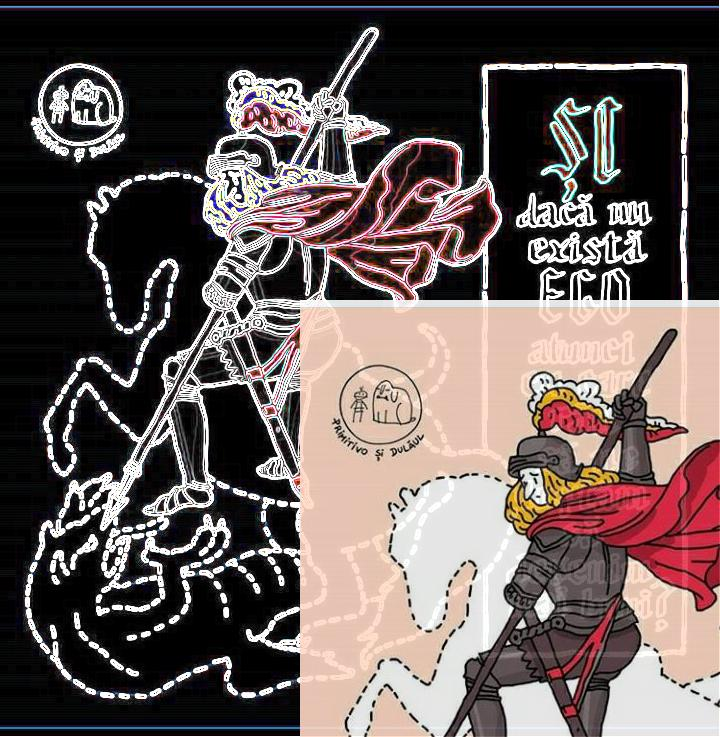
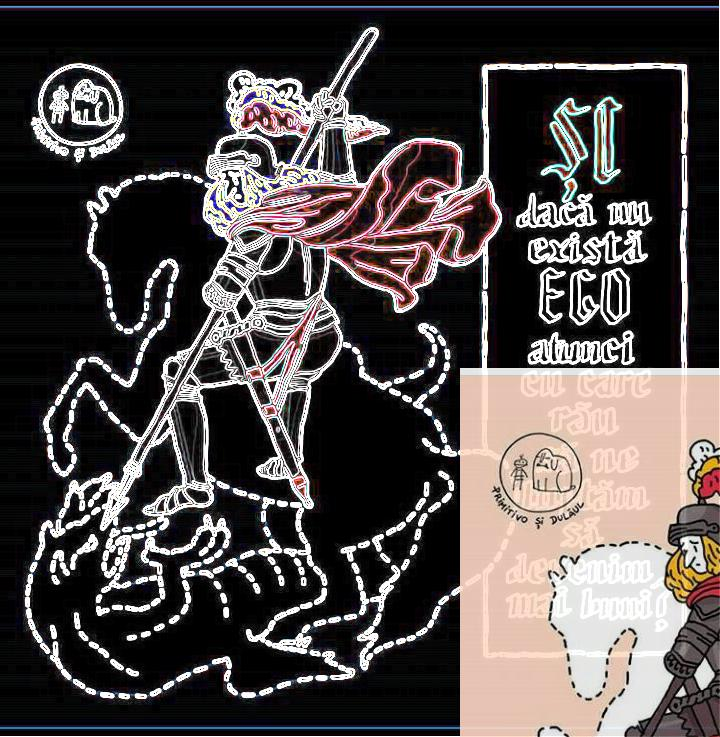
Added a mechanism for position representation

diff --git a/src/main/lib/effect/overlay.go b/src/main/lib/effect/overlay.go
@@ -2,6 +2,7 @@ package effect
 
 import (
 	core ".."
+	position "../position"
 	"fmt"
 	"image"
 	"image/color"
@@ -11,8 +12,8 @@ import (
 // Overlay encapsulates the data needed to apply an overlay image
 type Overlay struct {
 	core.BaseEffect
-	Stamp        image.Image
-	Origin       image.Point
+	Stamp   image.Image
+	Origin  position.Position
 	Opacity float64
 }
 
@@ -20,25 +21,25 @@ func (effect *Overlay) Apply(img image.Image) core.Promise {
 	ret := core.CreateRGBA(img.Bounds())
 	contract := effect.GetEngine().Contract(img.Bounds().Dy())
 	stampBounds := effect.Stamp.Bounds()
+	origin := effect.Origin.Get(img.Bounds())
 
 	for i := img.Bounds().Min.Y; i < img.Bounds().Max.Y; i++ {
 		y := i
 		if err := contract.PlaceOrder(func() {
 			for x := img.Bounds().Min.X; x < img.Bounds().Max.X; x++ {
-				if x < effect.Origin.X ||
-					y < effect.Origin.Y ||
-					x > stampBounds.Max.X+effect.Origin.X ||
-					y > stampBounds.Max.Y+effect.Origin.Y {
+				if x < origin.X || y < origin.Y ||
+					x > stampBounds.Max.X+origin.X ||
+					y > stampBounds.Max.Y+origin.Y {
 					ret.(draw.Image).Set(x, y, img.At(x, y))
 					continue
 				}
 
-				or, og, ob, oa := effect.Stamp.At(x-effect.Origin.X, y-effect.Origin.Y).RGBA()
+				or, og, ob, oa := effect.Stamp.At(x-origin.X, y-origin.Y).RGBA()
 
 				if oa == 0 {
 					ret.(draw.Image).Set(x, y, img.At(x, y))
 				} else {
-					opacity := core.Lerp(float64(oa) / core.MaxUint16, 0.0, effect.Opacity)
+					opacity := core.Lerp(float64(oa)/core.MaxUint16, 0.0, effect.Opacity)
 
 					if opacity == core.MaxUint16 {
 						ret.(draw.Image).Set(x, y, color.RGBA64{R: uint16(or), G: uint16(og), B: uint16(ob)})

diff --git a/src/main/lib/position/axial_position.go b/src/main/lib/position/axial_position.go
@@ -1,0 +1,55 @@
+package position
+
+import (
+	core ".."
+	"math"
+)
+
+// AxialPosition is a position interface that treats just one axis
+// and is useful for composing relative positions with axial positions
+// of different types
+type AxialPosition interface {
+	Get(start, end int) int
+}
+
+// FixedAxialPosition is a wrapper on a fixed value
+type FixedAxialPosition struct {
+	value int
+}
+
+func (p *FixedAxialPosition) Get(_, _ int) int {
+	return p.value
+}
+
+func NewFixedAxialPosition(val int) *FixedAxialPosition {
+	return &FixedAxialPosition{value: val}
+}
+
+// RelativeAxialPosition is an axial position representation that uses
+// a fixed value added to a chosen relative key point of the image
+type RelativeAxialPosition struct {
+	value int
+	mode  int
+}
+
+func (p *RelativeAxialPosition) Get(start, end int) int {
+	return getRelative(start, end, p.mode) + p.value
+}
+
+func NewRelativeAxialPosition(val, mode int) *RelativeAxialPosition {
+	return &RelativeAxialPosition{value: val, mode: mode}
+}
+
+// RelativeAxialPosition is an axial position representation that uses
+// a ratio that is used to interpolate between the key points of the image
+type PercentAxialPosition struct {
+	percent float64
+}
+
+func (p *PercentAxialPosition) Get(start, end int) int {
+	return int(math.Round(core.Lerp(float64(start), float64(end), p.percent)))
+}
+
+func NewPercentAxialPosition(val float64) *PercentAxialPosition {
+	return &PercentAxialPosition{percent: val}
+}

diff --git a/src/main/lib/position/position.go b/src/main/lib/position/position.go
@@ -1,0 +1,38 @@
+package position
+
+import (
+	"image"
+)
+
+// Position is an interface that serves for exposing generic ways to
+// decide upon the position of a point in an image depending of resolution
+type Position interface {
+	Get(image.Rectangle) image.Point
+}
+
+// FixedPosition is a simple wrapper on image.Point
+type FixedPosition struct {
+	image.Point
+}
+
+func (p *FixedPosition) Get(_ image.Rectangle) image.Point {
+	return p.Point
+}
+
+func NewFixedPosition(x, y int) *FixedPosition {
+	return &FixedPosition{image.Pt(x, y)}
+}
+
+// RelativePosition is a position representation that can use two different
+// representations for each axis in order to achieve greater flexibility
+type RelativePosition struct {
+	x, y *RelativeAxialPosition
+}
+
+func (p *RelativePosition) Get(bounds image.Rectangle) image.Point {
+	return image.Pt(p.x.Get(bounds.Min.X, bounds.Max.X), p.y.Get(bounds.Min.Y, bounds.Max.Y))
+}
+
+func NewRelativePosition(x, y *RelativeAxialPosition) *RelativePosition {
+	return &RelativePosition{x: x, y: y}
+}

diff --git a/src/main/main.go b/src/main/main.go
@@ -5,8 +5,7 @@ import (
 	effect "./lib/effect"
 	strategy "./lib/effect/strategy"
 	wrap "./lib/effect/wrap"
-	"image"
-
+	pos "./lib/position"
 	"fmt"
 )
 
@@ -32,7 +31,12 @@ func main() {
 	}
 	p := f.Apply(img)
 
-	o := effect.Overlay{Stamp: img, Origin: image.Pt(300, 300), Opacity: 0.9}
+	o := effect.Overlay{
+		Stamp: img,
+		Origin: pos.NewRelativePosition(
+			pos.NewRelativeAxialPosition(100, pos.Center),
+			pos.NewRelativeAxialPosition(0, pos.Center)),
+		Opacity: 0.9}
 	o.TransferTo(&ke)
 	p2 := o.Apply(p.Result())
 

diff --git a/src/main/lib/position/relative.go b/src/main/lib/position/relative.go
@@ -1,0 +1,20 @@
+package position
+
+const (
+	Start  = iota
+	Center = iota
+	End    = iota
+)
+
+func getRelative(start, end, mode int) int {
+	switch mode {
+	case Start:
+		return start
+	case End:
+		return end
+	case Center:
+		return (start + end) / 2
+	default:
+		return 0
+	}
+}
